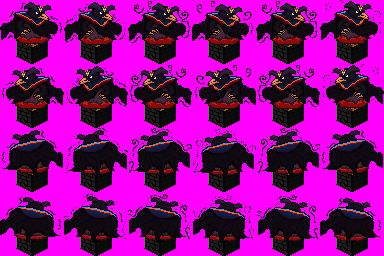
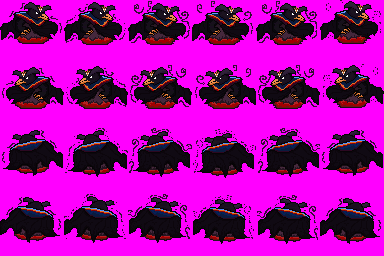
Wumpus funciona

diff --git a/src/mc322/game/MapBuilder.java b/src/mc322/game/MapBuilder.java
@@ -13,6 +13,7 @@ import mc322.game.entitiesCharacters.Heroes;
 import mc322.game.entitiesCharacters.Luna;
 import mc322.game.entitiesCharacters.Milo;
 import mc322.game.entitiesCharacters.Raju;
+import mc322.game.entitiesCharacters.Wumpus;
 import mc322.game.entitiesCharacters.Ze;
 import mc322.game.entitiesTiles.*;
 import mc322.game.entitiesCharacters.Character;
@@ -124,7 +125,12 @@ public class MapBuilder{
                                     selectedRoom[1]--;
                                     break;
                               case 'o':
-                                  rooms[i][j] = new Room(this, pi, rooms_around,"Origin", dungeon,selectedRoom[1]==0);
+                                  rooms[i][j] = new Room(this, pi, rooms_around,"Origin", dungeon,false);
+                                  selectedRoom[1]--;
+                                  break;
+                                  
+                              case 'w':
+                                  rooms[i][j] = new Room(this, pi, rooms_around,"Wumpus", dungeon,false);
                                   selectedRoom[1]--;
                                   break;
                               case '0':
@@ -190,7 +196,7 @@ public class MapBuilder{
             return false;
       }
 
-      public Character[][] buildEntities(int size,Pair<Integer,Integer> pos,String numberRoom,Room room,boolean buildEnemys) {
+      public Character[][] buildEntities(int size,Pair<Integer,Integer> pos,String numberRoom,Room room,boolean buildEnemys,boolean wumpus) {
             player = null;
             Character entities[][] = new Character[size][size];
 
@@ -221,7 +227,7 @@ public class MapBuilder{
                   room.setPlayer(player);
 
             }
-            if(buildEnemys)
+            if(buildEnemys && !wumpus)
             {
             	Random rand = new Random();
             	int numberOfEnemys = rand.nextInt(5);
@@ -244,6 +250,10 @@ public class MapBuilder{
             			}
             		}
             	}
+            }
+            if(wumpus)
+            {
+            	entities[size/2][size/2] = new Wumpus(size/2,size/2,0);
             }
             
             return entities;

diff --git a/src/mc322/game/entitiesCharacters/Wumpus.java b/src/mc322/game/entitiesCharacters/Wumpus.java
@@ -6,12 +6,12 @@ import mc322.game.GameRenderer;
 import mc322.game.Room;
 import mc322.game.Victory;
 
-public class Eye extends Enemys{
+public class Wumpus extends Enemys{
 
-	public Eye(int i, int j,double elevation)
+	public Wumpus(int i, int j,double elevation)
 	{
 		super(i,j,elevation);
-		this.name = "Eye";
+		this.name = "Wumpus";
             this.state = "idle";
 
             this.updateDir = 0;
@@ -23,10 +23,10 @@ public class Eye extends Enemys{
 
             this.nFrames = this.nFramesIdle = 4;
             this.nFramesMoving = 4;
-            hpMax = 100;
+            hpMax = 200;
             hp = hpMax;
-            armor = 5;
-            range = 5;
+            armor = 10;
+            range = 15;
             damage = 40;
 	}
 	
@@ -39,13 +39,19 @@ public class Eye extends Enemys{
 	}
 
 
-	public void update(double dt) throws Victory {
+	public void update(double dt){
 		if(hp<=0)
 			this.die();
             this.updateFrame += this.velocityAnim*dt;
             
 	}
 
+ 	public void die() throws Victory {
+ 		dead = true;
+  		throw new Victory();
+  		
+  	}
+	
 	public void renderer(Renderer r) {
 		GameRenderer.drawEnemy(i,j,elevation,name,r, (int)updateFrame%nFrames,this.updateDir,this.state);
 		GameRenderer.drawLifeEnemy(i,j,elevation,this.hpMax,this.hp,r);

diff --git a/src/mc322/game/Room.java b/src/mc322/game/Room.java
@@ -56,10 +56,10 @@ public class Room implements BasicObject {
             boolean hasEnemys = true;
             
             
-            numberRoom = "5";
-//            hasEnemys = false;
+//            numberRoom = "5";
+            hasEnemys = false;
             
-            
+            boolean wumpus = false;
             if(color.equals("Origin"))
             {
             	numberRoom="0";
@@ -67,10 +67,18 @@ public class Room implements BasicObject {
             	this.color = "Purple";
             }
             
+            if(color.equals("Wumpus"))
+            {
+            	numberRoom="wumpus";
+            	hasEnemys = false;
+            	this.color = "Black";
+            	wumpus = true;
+            }
+            
             this.blocked = true;
 
             tiles = mapBuilder.buildTiles(size, pos, rooms_around,numberRoom,this);
-            entities = mapBuilder.buildEntities(size, pos, numberRoom,this,hasEnemys);
+            entities = mapBuilder.buildEntities(size, pos, numberRoom,this,hasEnemys,wumpus);
             this.updateHerosAtRoom();
             if(hasKey)
             {

diff --git a/src/mc322/game/Menu.java b/src/mc322/game/Menu.java
@@ -26,10 +26,15 @@ public class Menu implements BasicObject{
 		{
 		case "map":
 			this.game.pause();
-			
 			break;
 		case "game":
 			this.game.unpause();
+			break;
+		case "victory":
+			this.game.pause();
+			break;
+		case "defeat":
+			this.game.pause();
 			break;
 		default:
 			break;
@@ -46,8 +51,13 @@ public class Menu implements BasicObject{
 		switch(this.STATE)
 		{
 		case "map":
-			GameRenderer.drawMenu(-70,-140,"DungeonMap",r);
-			
+			GameRenderer.drawMenu(100,0,"DungeonMap",r);
+			break;
+		case "victory":
+			GameRenderer.drawMenu(100,0,"Victory",r);
+			break;
+		case "defeat":
+			GameRenderer.drawMenu(100,0,"Defeat",r);
 			break;
 		default:
 			break;

diff --git a/src/mc322/game/GameBrain.java b/src/mc322/game/GameBrain.java
@@ -20,7 +20,7 @@ public abstract class GameBrain{
 
       public static Pair<Integer, Integer> getOrigin(){
             //Purple:
-            Pair <Integer, Integer> origin = Pair.of(11, 1);
+            //Pair <Integer, Integer> origin = Pair.of(11, 1);
 
             //Green:
             //Pair <Integer, Integer> origin = Pair.of(8, 12);
@@ -35,7 +35,7 @@ public abstract class GameBrain{
             //Pair <Integer, Integer> origin = Pair.of(13, 12);
 
             //Black
-            //Pair <Integer, Integer> origin = Pair.of(3, 14);
+            Pair <Integer, Integer> origin = Pair.of(3, 14);
             return origin;
       }
 

diff --git a/src/mc322/game/entitiesCharacters/Character.java b/src/mc322/game/entitiesCharacters/Character.java
@@ -11,6 +11,7 @@ import mc322.game.ImpossibleOriginOrDestiny;
 import mc322.game.DoorSelected;
 import mc322.game.Entity;
 import mc322.game.Room;
+import mc322.game.Victory;
 
 public abstract class Character extends Entity{
 
@@ -36,7 +37,7 @@ public abstract class Character extends Entity{
       //public abstract void change_state(String state);
       public abstract void attack(int i,int j, Room room);
 
-  	public void die() {
+  	public void die() throws Victory {
   		//System.out.println(this+ " morreu");
   		dead = true;
   	}

diff --git a/src/mc322/game/GameManager.java b/src/mc322/game/GameManager.java
@@ -102,8 +102,11 @@ public class GameManager implements AbstractGame{
                   try {
 					dungeon.update(dt);
 				} catch (GameOver e) {
-					e.printStackTrace();
-				}
+					menu.setState("defeat") ;
+				} catch (Victory v)
+                  {
+					menu.setState("victory") ;
+                  }
                   timing_keys_move += dt;
             }
             menu.update(dt);

diff --git a/src/mc322/game/Victory.java b/src/mc322/game/Victory.java
@@ -1,11 +1,11 @@
 package mc322.game;
 
-public class GameOver extends RuntimeException{
+public class Victory extends RuntimeException{
 
       private static final long serialVersionUID = 4251364228306816660L;
 
       public String toString(){
-            return "All heros are dead, you lose!";
+            return "You defeat the WUMPUS!";
       }
 
 }

diff --git a/src/mc322/engine/BasicObject.java b/src/mc322/engine/BasicObject.java
@@ -3,6 +3,6 @@ package mc322.engine;
 import mc322.game.GameOver;
 
 public interface BasicObject{
-      public void update(double dt) throws GameOver;
+      public void update(double dt);
       public void renderer(Renderer r);
 }
